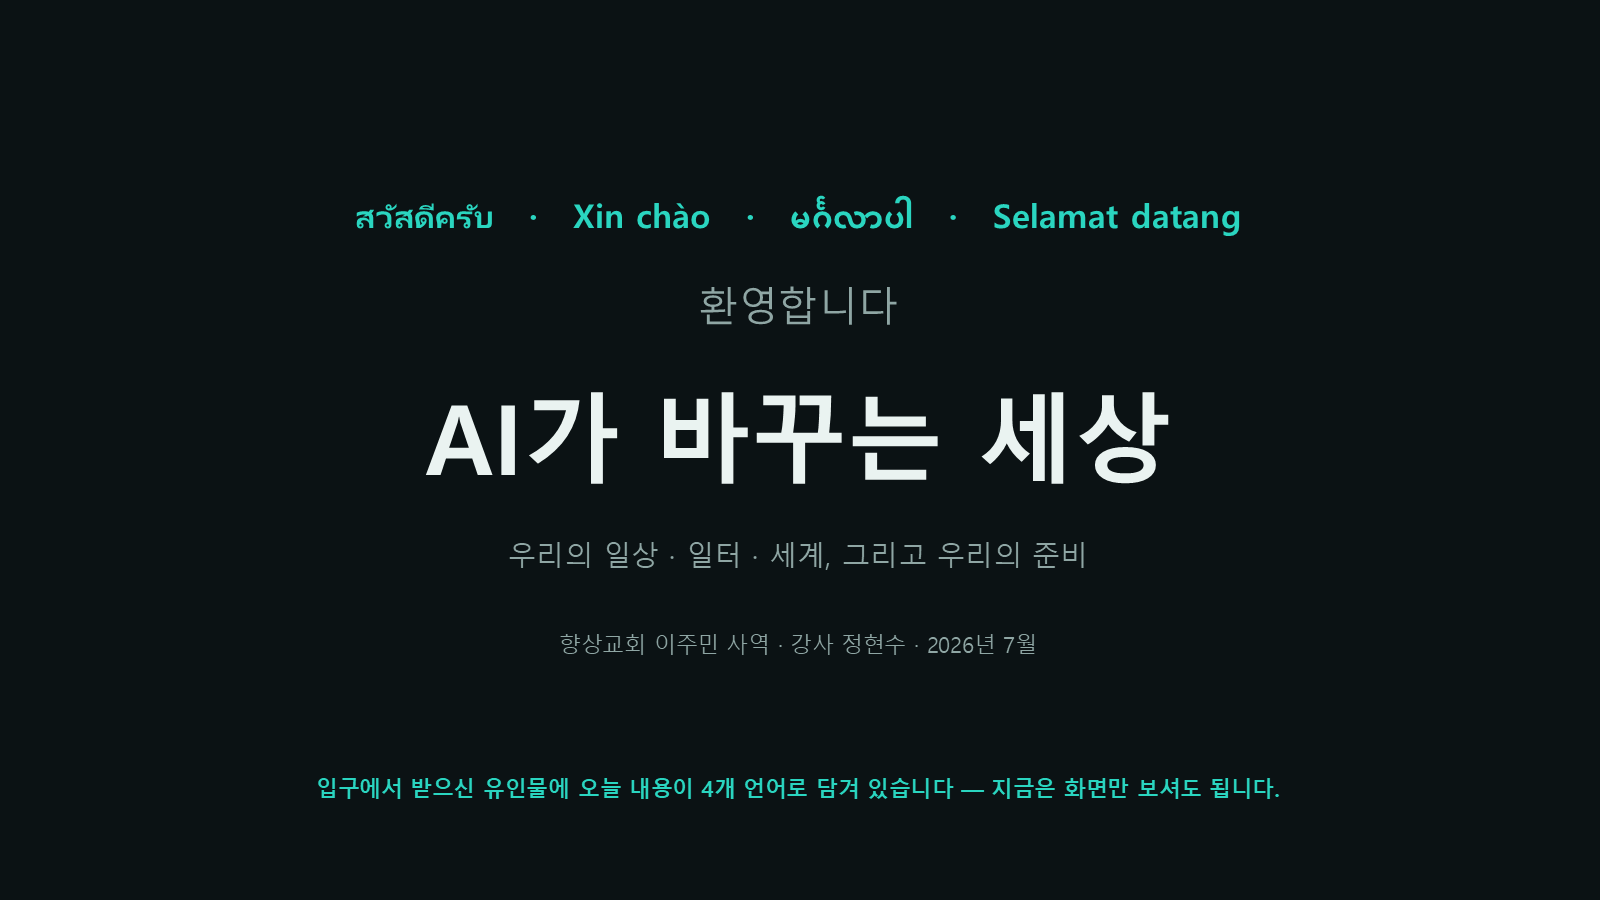
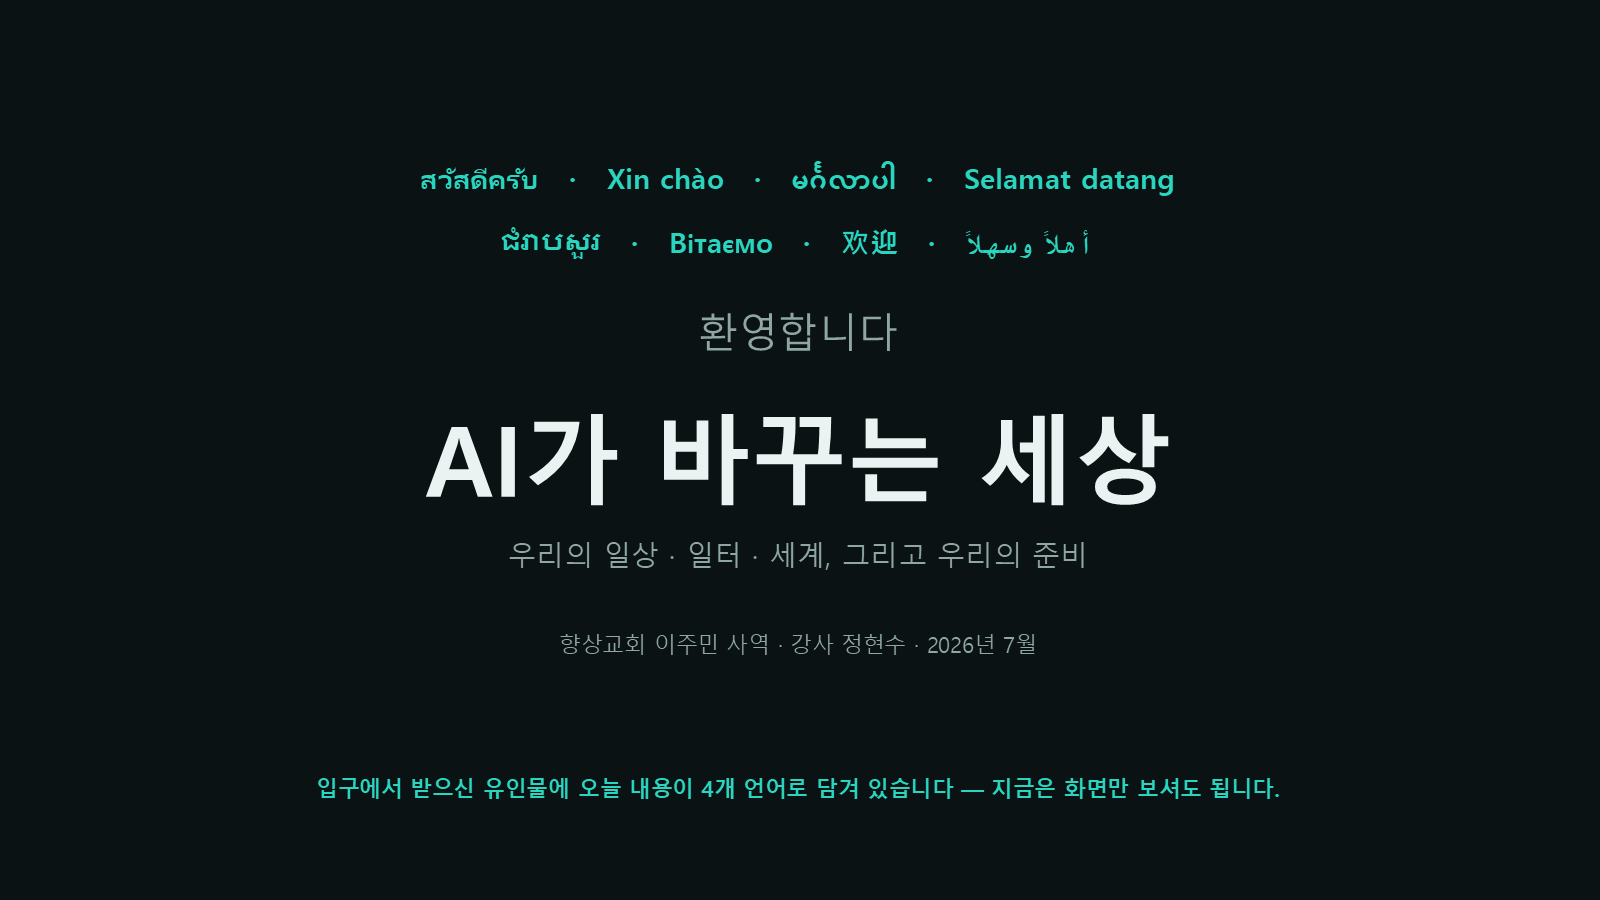
Lecture v2: 8-language greetings, redesigned milestone chart, 10 AI-workplace terms, chapter art panels, YouTube links, in-slide animations (57 slides)

diff --git a/app/lecture/page.tsx b/app/lecture/page.tsx
@@ -78,12 +78,18 @@ export default function LecturePage() {
         poke();
       }}
     >
-      {/* 슬라이드 */}
+      {/* 슬라이드 (등장 애니메이션: 페이드인 + 미세 줌) */}
+      <style>{`
+        @keyframes slideIn { 0% { opacity: 0; transform: scale(0.985); } 12% { opacity: 1; } 100% { opacity: 1; transform: scale(1.012); } }
+        @media (prefers-reduced-motion: reduce) { .slide-anim { animation: none !important; } }
+      `}</style>
       {/* eslint-disable-next-line @next/next/no-img-element */}
       <img
+        key={cur}
         src={src(cur)}
         alt={`슬라이드 ${cur} / ${TOTAL}`}
-        className="absolute inset-0 h-full w-full object-contain"
+        className="slide-anim absolute inset-0 h-full w-full object-contain"
+        style={{ animation: "slideIn 16s ease-out both" }}
         draggable={false}
       />
       {/* 다음 슬라이드 미리 로드 */}
